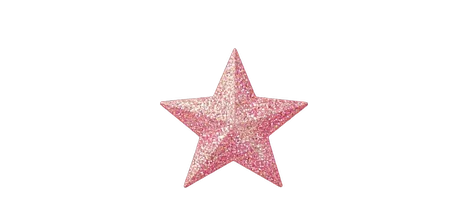
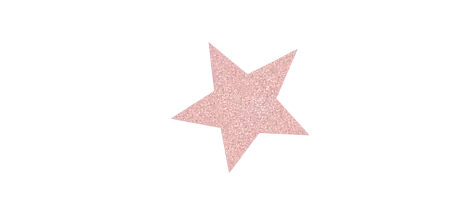
El cierre armoniza y la tela deja de verse cortada
El remate eran dos ramitas de acuarela con una estrella de purpurina en
medio: tres materiales distintos en veinte centímetros. Ahora son tres
estrellas de la misma familia, con tamaños y tonos distintos, y la del
centro —donde aterriza la que cae— manda.

La lámina de la tela viene cortada en recto por arriba y por la derecha:
medido, alfa 246 y 252 en esos cantos, contra 5 y 30 en los otros dos. El de
arriba quedaba a plena vista como una línea recta. Se desvanece en los dos
bordes duros, así que entre por donde entre ya no hay corte.

Comprobado a 375, 480 y 640: sin choques, sin desbordes, sin imágenes rotas.

Changed region(s): [[0.3277, 0.2039, 0.6553, 0.932]]

diff --git a/index.html b/index.html
@@ -11,10 +11,10 @@
 <link rel="preconnect" href="https://fonts.googleapis.com">
 <link rel="preconnect" href="https://fonts.gstatic.com" crossorigin>
 <link rel="stylesheet" href="https://fonts.googleapis.com/css2?family=Cormorant+Garamond:ital,wght@0,300;0,400;0,500;0,600;1,300;1,400&family=Jost:wght@300;400;500&family=Great+Vibes&display=swap">
-<!-- El estilo se decide antes de pintar nada: si se pusiera desde script.js?v=1795373540-de1f69e
+<!-- El estilo se decide antes de pintar nada: si se pusiera desde script.js?v=1795373914-2f91c5d
      se vería un parpadeo del estilo viejo al nuevo. Manda ?estilo= de la URL;
-     si no, lo que diga datos.js?v=1795373540-de1f69e (y por defecto, «papel»). -->
-<script src="datos.js?v=1795373540-de1f69e"></script>
+     si no, lo que diga datos.js?v=1795373914-2f91c5d (y por defecto, «papel»). -->
+<script src="datos.js?v=1795373914-2f91c5d"></script>
 <script>
   (function () {
     var p = new URLSearchParams(location.search).get('estilo');
@@ -24,8 +24,8 @@
     if (e) try { sessionStorage.setItem('estilo', e); } catch (x) {}
   })();
 </script>
-<link rel="preload" as="image" href="assets/apertura-poster.webp?v=1795373540-de1f69e">
-<link rel="stylesheet" href="styles.css?v=1795373540-de1f69e">
+<link rel="preload" as="image" href="assets/apertura-poster.webp?v=1795373914-2f91c5d">
+<link rel="stylesheet" href="styles.css?v=1795373914-2f91c5d">
 </head>
 <body class="sin-abrir">
 
@@ -39,21 +39,21 @@
             aria-label="Abrir la invitación de Soffia">
      <span class="lienzo">
       <!-- 1 · el sobre cerrado, quieto, hasta que tocan -->
-      <img class="capa" id="capa-poster" src="assets/apertura-poster.webp?v=1795373540-de1f69e" alt=""
+      <img class="capa" id="capa-poster" src="assets/apertura-poster.webp?v=1795373914-2f91c5d" alt=""
            width="1080" height="1920" fetchpriority="high">
 
       <!-- 2 · los dos vídeos, uno detrás de otro. Son dos elementos y no uno
            con la fuente cambiada: así el segundo ya está descargado y pintado
            cuando acaba el primero, y el corte no parpadea. -->
       <video class="capa" id="video-1" muted playsinline preload="auto"
-             aria-hidden="true" src="assets/apertura-1.mp4?v=1795373540-de1f69e"></video>
+             aria-hidden="true" src="assets/apertura-1.mp4?v=1795373914-2f91c5d"></video>
       <video class="capa" id="video-2" muted playsinline preload="none"
              aria-hidden="true"></video>
 
       <!-- 3 · la hoja: es el último fotograma del segundo vídeo, así que el
            relevo no se ve. Hace falta porque el navegador tira la imagen de un
            vídeo pausado al salir de pantalla y al volver dibuja la primera. -->
-      <img class="capa" id="capa-final" src="assets/apertura-final.webp?v=1795373540-de1f69e" alt=""
+      <img class="capa" id="capa-final" src="assets/apertura-final.webp?v=1795373914-2f91c5d" alt=""
            width="1080" height="1920" fetchpriority="low">
 
       <!-- 3b · y la hoja se asienta: el fotograma del vídeo recorta un 18 %
@@ -61,7 +61,7 @@
            entera y entra creciendo hacia su tamaño real, así que el reencuadre
            se lee como el papel posándose y no como un salto. -->
       <span class="capa hoja-posada" id="hoja-posada" aria-hidden="true">
-        <img src="assets/hoja.webp?v=1795373540-de1f69e" alt="" width="720" height="1168"
+        <img src="assets/hoja.webp?v=1795373914-2f91c5d" alt="" width="720" height="1168"
              fetchpriority="low">
       </span>
 
@@ -102,8 +102,8 @@
 <!-- ══════════════ 2 · LA ILUSIÓN ══════════════ -->
 <section class="seccion s-nota" id="nota">
   <div class="costura costura-arriba invertida" aria-hidden="true"></div>
-  <img class="adorno ad-estrellas ad-estrellas-izq" src="assets/ad-estrellas-c.webp?v=1795373540-de1f69e" alt="" aria-hidden="true" loading="lazy" data-parallax="0.12">
-  <img class="adorno ad-globo" src="assets/ad-globo.webp?v=1795373540-de1f69e" alt="" aria-hidden="true" loading="lazy" data-parallax="0.08">
+  <img class="adorno ad-estrellas ad-estrellas-izq" src="assets/ad-estrellas-c.webp?v=1795373914-2f91c5d" alt="" aria-hidden="true" loading="lazy" data-parallax="0.12">
+  <img class="adorno ad-globo" src="assets/ad-globo.webp?v=1795373914-2f91c5d" alt="" aria-hidden="true" loading="lazy" data-parallax="0.08">
 
   <div class="envoltorio">
     <p class="parrafo-grande revela" id="msj-presentacion" style="--i:0"></p>
@@ -113,8 +113,8 @@
 <!-- ══════════════ 3 · SOFFIA ══════════════ -->
 <section class="seccion s-soffia" id="soffia">
   <div class="costura costura-arriba" aria-hidden="true"></div>
-  <img class="adorno ad-brillo ad-brillo-esferas" src="assets/ad-brillo.webp?v=1795373540-de1f69e" alt="" aria-hidden="true" loading="lazy" data-parallax="0.13">
-  <img class="adorno ad-esferas" src="assets/ad-esferas.webp?v=1795373540-de1f69e" alt="" aria-hidden="true" loading="lazy" data-parallax="0.10">
+  <img class="adorno ad-brillo ad-brillo-esferas" src="assets/ad-brillo.webp?v=1795373914-2f91c5d" alt="" aria-hidden="true" loading="lazy" data-parallax="0.13">
+  <img class="adorno ad-esferas" src="assets/ad-esferas.webp?v=1795373914-2f91c5d" alt="" aria-hidden="true" loading="lazy" data-parallax="0.10">
 
   <!-- el puente: lo último que se lee antes de que se abran las rosas -->
   <div class="envoltorio">
@@ -131,13 +131,13 @@
     <div class="retrato-marco">
       <img id="foto-portada" alt="Fotografía de Soffia" hidden>
       <div class="retrato-vacio" id="retrato-vacio">
-        <img src="assets/flor-hojas.webp?v=1795373540-de1f69e" alt="" loading="lazy">
+        <img src="assets/flor-hojas.webp?v=1795373914-2f91c5d" alt="" loading="lazy">
         <p>Aquí irá la fotografía de Soffia</p>
       </div>
       <!-- tres paneles de rosas: arriba sube, izquierda y derecha se abren -->
-      <img class="velo velo-arriba" src="assets/panel-arriba.webp?v=1795373540-de1f69e" alt="" loading="lazy">
-      <img class="velo velo-izq" src="assets/panel-izq.webp?v=1795373540-de1f69e" alt="" loading="lazy">
-      <img class="velo velo-der" src="assets/panel-der.webp?v=1795373540-de1f69e" alt="" loading="lazy">
+      <img class="velo velo-arriba" src="assets/panel-arriba.webp?v=1795373914-2f91c5d" alt="" loading="lazy">
+      <img class="velo velo-izq" src="assets/panel-izq.webp?v=1795373914-2f91c5d" alt="" loading="lazy">
+      <img class="velo velo-der" src="assets/panel-der.webp?v=1795373914-2f91c5d" alt="" loading="lazy">
     </div>
     <span class="costura costura-foto arriba" aria-hidden="true"></span>
     <span class="costura costura-foto abajo" aria-hidden="true"></span>
@@ -160,8 +160,8 @@
 <!-- ══════════════ 3 · CUÁNDO Y DÓNDE ══════════════ -->
 <section class="seccion s-cuando" id="cuando">
   <div class="costura costura-arriba invertida" aria-hidden="true"></div>
-  <img class="adorno ad-estrellas ad-estrellas-der" src="assets/ad-estrellas-b.webp?v=1795373540-de1f69e" alt="" aria-hidden="true" loading="lazy" data-parallax="0.12">
-  <img class="adorno ad-guirnalda" src="assets/ad-guirnalda.webp?v=1795373540-de1f69e" alt="" aria-hidden="true" loading="lazy" data-parallax="0.11">
+  <img class="adorno ad-estrellas ad-estrellas-der" src="assets/ad-estrellas-b.webp?v=1795373914-2f91c5d" alt="" aria-hidden="true" loading="lazy" data-parallax="0.12">
+  <img class="adorno ad-guirnalda" src="assets/ad-guirnalda.webp?v=1795373914-2f91c5d" alt="" aria-hidden="true" loading="lazy" data-parallax="0.11">
 
   <div class="envoltorio">
     <p class="antetitulo revela" style="--i:0">Cuándo</p>
@@ -182,8 +182,8 @@
 <!-- ══════════════ 4b · DÓNDE ══════════════ -->
 <section class="seccion s-donde" id="donde">
   <div class="costura costura-arriba" aria-hidden="true"></div>
-  <img class="adorno ad-estrellas ad-estrellas-izq" src="assets/ad-estrellas-c.webp?v=1795373540-de1f69e" alt="" aria-hidden="true" loading="lazy" data-parallax="0.12">
-  <img class="adorno ad-perlas" src="assets/ad-perlas.webp?v=1795373540-de1f69e" alt="" aria-hidden="true" loading="lazy" data-parallax="0.12">
+  <img class="adorno ad-estrellas ad-estrellas-izq" src="assets/ad-estrellas-c.webp?v=1795373914-2f91c5d" alt="" aria-hidden="true" loading="lazy" data-parallax="0.12">
+  <img class="adorno ad-perlas" src="assets/ad-perlas.webp?v=1795373914-2f91c5d" alt="" aria-hidden="true" loading="lazy" data-parallax="0.12">
 
   <div class="envoltorio">
     <p class="antetitulo revela" style="--i:0">Dónde</p>
@@ -196,8 +196,8 @@
 <!-- ══════════════ 4 · ITINERARIO ══════════════ -->
 <section class="seccion s-itinerario" id="itinerario">
   <div class="costura costura-arriba" aria-hidden="true"></div>
-  <img class="adorno ad-estrellas ad-estrellas-der" src="assets/ad-estrellas-a.webp?v=1795373540-de1f69e" alt="" aria-hidden="true" loading="lazy" data-parallax="0.12">
-  <img class="adorno ad-mono-a" src="assets/ad-mono-a.webp?v=1795373540-de1f69e" alt="" aria-hidden="true" loading="lazy" data-parallax="0.10">
+  <img class="adorno ad-estrellas ad-estrellas-der" src="assets/ad-estrellas-a.webp?v=1795373914-2f91c5d" alt="" aria-hidden="true" loading="lazy" data-parallax="0.12">
+  <img class="adorno ad-mono-a" src="assets/ad-mono-a.webp?v=1795373914-2f91c5d" alt="" aria-hidden="true" loading="lazy" data-parallax="0.10">
 
   <div class="envoltorio">
     <p class="antetitulo revela" style="--i:0">Así celebraremos</p>
@@ -214,8 +214,8 @@
 <!-- ══════════════ 5 · VESTIMENTA ══════════════ -->
 <section class="seccion s-vestir" id="vestir" hidden>
   <div class="costura costura-arriba invertida" aria-hidden="true"></div>
-  <img class="adorno ad-estrellas ad-estrellas-izq" src="assets/ad-estrellas-c.webp?v=1795373540-de1f69e" alt="" aria-hidden="true" loading="lazy" data-parallax="0.12">
-  <img class="adorno ad-cintas" src="assets/ad-cintas.webp?v=1795373540-de1f69e" alt="" aria-hidden="true" loading="lazy" data-parallax="0.10">
+  <img class="adorno ad-estrellas ad-estrellas-izq" src="assets/ad-estrellas-c.webp?v=1795373914-2f91c5d" alt="" aria-hidden="true" loading="lazy" data-parallax="0.12">
+  <img class="adorno ad-cintas" src="assets/ad-cintas.webp?v=1795373914-2f91c5d" alt="" aria-hidden="true" loading="lazy" data-parallax="0.10">
 
   <div class="envoltorio">
     <div class="vestimenta" id="vestimenta" hidden></div>
@@ -225,9 +225,9 @@
 <!-- ══════════════ 6 · CONFIRMACIÓN ══════════════ -->
 <section class="seccion s-confirmar" id="confirmar">
   <div class="costura costura-arriba" aria-hidden="true"></div>
-  <img class="adorno ad-estrellas ad-estrellas-izq" src="assets/ad-estrellas-b.webp?v=1795373540-de1f69e" alt="" aria-hidden="true" loading="lazy" data-parallax="0.12">
-  <img class="adorno ad-brillo ad-brillo-globos" src="assets/ad-brillo.webp?v=1795373540-de1f69e" alt="" aria-hidden="true" loading="lazy" data-parallax="0.13">
-  <img class="adorno ad-globos" src="assets/ad-globos.webp?v=1795373540-de1f69e" alt="" aria-hidden="true" loading="lazy" data-parallax="0.09">
+  <img class="adorno ad-estrellas ad-estrellas-izq" src="assets/ad-estrellas-b.webp?v=1795373914-2f91c5d" alt="" aria-hidden="true" loading="lazy" data-parallax="0.12">
+  <img class="adorno ad-brillo ad-brillo-globos" src="assets/ad-brillo.webp?v=1795373914-2f91c5d" alt="" aria-hidden="true" loading="lazy" data-parallax="0.13">
+  <img class="adorno ad-globos" src="assets/ad-globos.webp?v=1795373914-2f91c5d" alt="" aria-hidden="true" loading="lazy" data-parallax="0.09">
 
   <div class="envoltorio">
     <p class="antetitulo revela" style="--i:0">Nos vemos en mis XV</p>
@@ -239,15 +239,15 @@
 <!-- ══════════════ 7 · DESPEDIDA ══════════════ -->
 <section class="seccion s-cierre" id="cierre">
   <div class="costura costura-arriba invertida" aria-hidden="true"></div>
-  <img class="adorno ad-tela" src="assets/ad-tela.webp?v=1795373540-de1f69e" alt="" aria-hidden="true" loading="lazy" data-parallax="0.07">
-  <img class="adorno ad-estrellas ad-estrellas-der" src="assets/ad-estrellas-c.webp?v=1795373540-de1f69e" alt="" aria-hidden="true" loading="lazy" data-parallax="0.12">
-  <img class="adorno ad-mono-b" src="assets/ad-mono-b.webp?v=1795373540-de1f69e" alt="" aria-hidden="true" loading="lazy" data-parallax="0.10">
+  <img class="adorno ad-tela" src="assets/ad-tela.webp?v=1795373914-2f91c5d" alt="" aria-hidden="true" loading="lazy" data-parallax="0.07">
+  <img class="adorno ad-estrellas ad-estrellas-der" src="assets/ad-estrellas-c.webp?v=1795373914-2f91c5d" alt="" aria-hidden="true" loading="lazy" data-parallax="0.12">
+  <img class="adorno ad-mono-b" src="assets/ad-mono-b.webp?v=1795373914-2f91c5d" alt="" aria-hidden="true" loading="lazy" data-parallax="0.10">
   <!-- el cierre se monta en tres piezas: la rosa donde aterriza la que cae,
        y el follaje de cada lado, que sale de detrás cuando ya está posada -->
   <span class="flor flor-cierre-b" aria-hidden="true" data-parallax="0.09">
-    <img class="cierre-hoja cierre-izq" src="assets/flor-bajo-izq.webp?v=1795373540-de1f69e" alt="" loading="lazy">
-    <img class="cierre-hoja cierre-der" src="assets/flor-bajo-der.webp?v=1795373540-de1f69e" alt="" loading="lazy">
-    <img class="cierre-rosa" src="assets/flor-bajo-rosa.webp?v=1795373540-de1f69e" alt="" loading="lazy">
+    <img class="cierre-hoja cierre-izq" src="assets/flor-bajo-izq.webp?v=1795373914-2f91c5d" alt="" loading="lazy">
+    <img class="cierre-hoja cierre-der" src="assets/flor-bajo-der.webp?v=1795373914-2f91c5d" alt="" loading="lazy">
+    <img class="cierre-rosa" src="assets/flor-bajo-rosa.webp?v=1795373914-2f91c5d" alt="" loading="lazy">
   </span>
 
   <div class="envoltorio">
@@ -265,9 +265,9 @@
 
 <!-- la rosa que se desprende de la tarjeta y baja con el scroll -->
 <span class="petalo" id="petalo" aria-hidden="true">
-  <img class="petalo-cara" id="rosa-frente" src="assets/rosa-frente.webp?v=1795373540-de1f69e" alt="">
-  <img class="petalo-cara" id="rosa-tres"   src="assets/rosa-tres.webp?v=1795373540-de1f69e"   alt="">
-  <img class="petalo-cara" id="rosa-perfil" src="assets/rosa-perfil.webp?v=1795373540-de1f69e" alt="">
+  <img class="petalo-cara" id="rosa-frente" src="assets/rosa-frente.webp?v=1795373914-2f91c5d" alt="">
+  <img class="petalo-cara" id="rosa-tres"   src="assets/rosa-tres.webp?v=1795373914-2f91c5d"   alt="">
+  <img class="petalo-cara" id="rosa-perfil" src="assets/rosa-perfil.webp?v=1795373914-2f91c5d" alt="">
 </span>
 
 <button type="button" class="audio" id="audio" hidden aria-pressed="false"
@@ -279,6 +279,6 @@
   Vista previa
 </div>
 
-<script src="script.js?v=1795373540-de1f69e"></script>
+<script src="script.js?v=1795373914-2f91c5d"></script>
 </body>
 </html>

diff --git a/styles.css b/styles.css
@@ -71,7 +71,7 @@ body{
 body::before{
   content:''; position:fixed; inset:0; z-index:9;
   pointer-events:none;
-  background:url('assets/papel-marfil.webp?v=1795373540-de1f69e') repeat;
+  background:url('assets/papel-marfil.webp?v=1795373914-2f91c5d') repeat;
   background-size:360px 360px;
   opacity:.5; mix-blend-mode:multiply;
 }
@@ -218,8 +218,8 @@ body.hoja-posada-lista .hoja-posada img{ opacity:1; transform:none; }
 /* la máscara deja ver la tarjeta solo por encima de la V de la solapa */
 .marco-tarjeta{
   position:absolute; inset:0; display:block;
-  -webkit-mask-image:url('assets/mascara-tarjeta.png?v=1795373540-de1f69e');
-          mask-image:url('assets/mascara-tarjeta.png?v=1795373540-de1f69e');
+  -webkit-mask-image:url('assets/mascara-tarjeta.png?v=1795373914-2f91c5d');
+          mask-image:url('assets/mascara-tarjeta.png?v=1795373914-2f91c5d');
   -webkit-mask-size:100% 66.5072%;
           mask-size:100% 66.5072%;
   -webkit-mask-position:top left;  mask-position:top left;
@@ -425,7 +425,7 @@ main{ display:block; }
 /* costuras de papel rasgado entre secciones */
 .costura{
   position:absolute; top:-2px; left:0; width:100%; height:clamp(26px,6.4vw,40px);
-  background:url('assets/tira-papel.webp?v=1795373540-de1f69e') center bottom / 100% 100% no-repeat;
+  background:url('assets/tira-papel.webp?v=1795373914-2f91c5d') center bottom / 100% 100% no-repeat;
   z-index:1; pointer-events:none;
   filter: drop-shadow(0 3px 5px rgba(130,97,80,.1));
 }

diff --git a/script.js b/script.js
@@ -48,7 +48,7 @@ let   abierto   = false;
    aparecen las letras encima. Los dos vídeos van en dos elementos distintos:
    el segundo se precarga mientras corre el primero, así el corte entre ellos
    no parpadea (el último fotograma de uno es el primero del otro). */
-const VIDEOS = ['assets/apertura-1.mp4?v=1795373540-de1f69e', 'assets/apertura-2.mp4?v=1795373540-de1f69e'];
+const VIDEOS = ['assets/apertura-1.mp4?v=1795373914-2f91c5d', 'assets/apertura-2.mp4?v=1795373914-2f91c5d'];
 
 /* El texto va centrado sobre LA HOJA, no sobre la pantalla. La hoja cambia
    de tamaño y de sitio según la proporción del móvil, así que un porcentaje
@@ -203,7 +203,7 @@ if (MODO === 'video' && !yaAbierto && !QUIETO) {
   setTimeout(pedirSegundo, 2500);          // red lenta: no esperamos para siempre
 }
 
-/* ══════════════ 2 · CONTENIDO DESDE datos.js?v=1795373540-de1f69e ══════════════ */
+/* ══════════════ 2 · CONTENIDO DESDE datos.js?v=1795373914-2f91c5d ══════════════ */
 
 if (PREVIA && $('#aviso-previa')) $('#aviso-previa').hidden = false;
 
